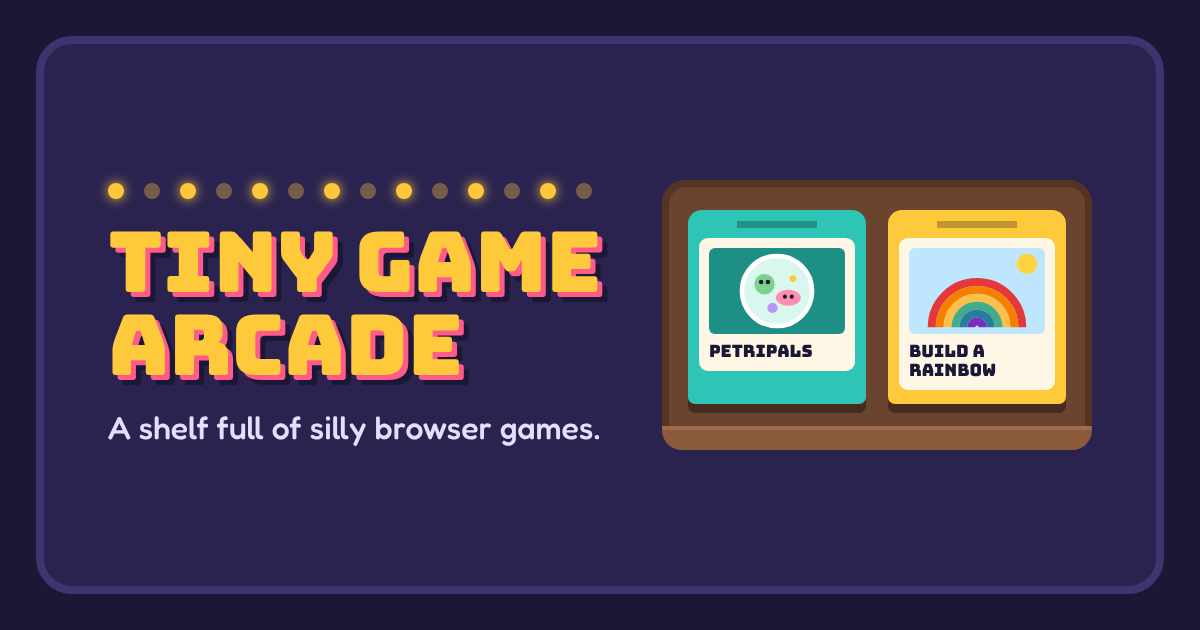
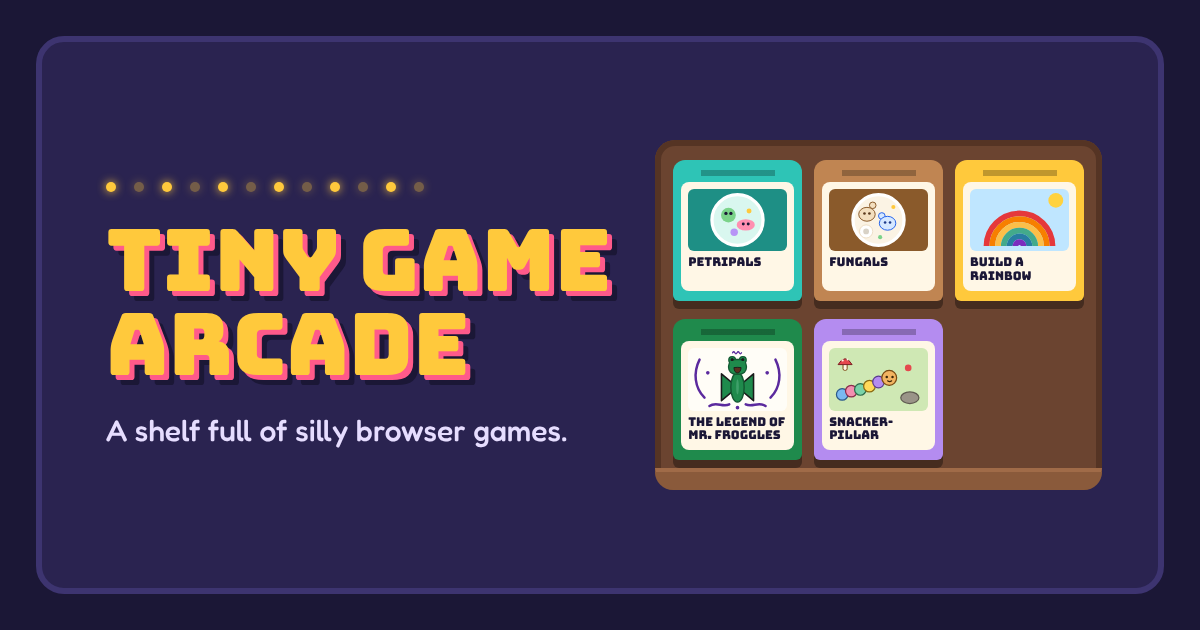
Show all five games in the link preview, and drop Coming soon
share.png showed only PetriPals and Build a Rainbow. It now has all five
cartridges on a two-row shelf, made from the arcade's own styles and
pictures, and its description lists them. The README no longer says
Mr. Froggles is coming soon.

Claude-Session: https://claude.ai/code/session_01RAUxd3SXo89jMUv7LzYjWM

diff --git a/public/index.html b/public/index.html
@@ -22,7 +22,7 @@
     <meta property="og:image" content="https://jessicasogge.github.io/tiny-game-arcade/share.png" />
     <meta property="og:image:width" content="1200" />
     <meta property="og:image:height" content="630" />
-    <meta property="og:image:alt" content="The words Tiny Game Arcade next to a wooden shelf holding PetriPals and Build a Rainbow game cartridges" />
+    <meta property="og:image:alt" content="The words Tiny Game Arcade next to a wooden shelf holding game cartridges for PetriPals, FunGals, Build a Rainbow, The Legend of Mr. Froggles and Snackerpillar" />
     <meta name="twitter:card" content="summary_large_image" />
   </head>
   <body>

diff --git a/README.md b/README.md
@@ -7,7 +7,7 @@ On the shelf now:
 - **[PetriPals](https://jessicasogge.github.io/petripals/):** pick a bacterium, grow your colony, dodge antibiotics and race rival microbes.
 - **[FunGals](https://jessicasogge.github.io/fungals/):** the sister game to PetriPals: pick a fungal pal, bud your yeast colony and steer clear of the antifungal disks.
 - **[Build a Rainbow](https://jessicasogge.github.io/build-a-rainbow/):** eight rainbow color games for young kids.
-- **[The Legend of Mr. Froggles](https://jessicasogge.github.io/legend-of-froggles/):** a magical flying frog, based on an original drawing by Caitlin Sogge. Coming soon.
+- **[The Legend of Mr. Froggles](https://jessicasogge.github.io/legend-of-froggles/):** a magical flying frog, based on an original drawing by Caitlin Sogge.
 - **[Snackerpillar](https://jessicasogge.github.io/snackerpillar/):** steer a hungry caterpillar made of circles, eat colored dots to grow, and don't bump into rocks, mushrooms or her own tail.
 
 ## Running it locally
